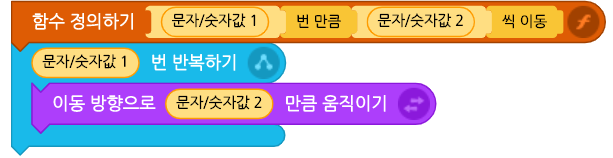
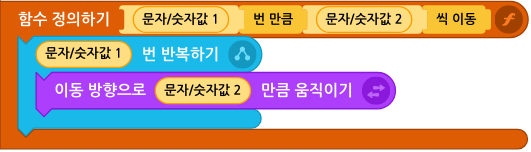
함수 블록 내용 보강
- 기존 서술을 대폭 수정
- 더 나은 화질의 이미지를 적용

diff --git a/source/user/block_function.md b/source/user/block_function.md
@@ -1,180 +1,141 @@
 ---
 layout: page
 title: 함수 블록
-date: 2020-11-18 16:38:00
+date: 2023-01-25 15:48:00
 type: userGuide
 category: "블록"
 order: 21
 ---
 
-함수를 이용하면 여러 블록의 조립을 하나의 블록처럼 사용할 수 있습니다. 하나의 기능을 위해 사용되는 블록의 모음이거나 여러 번 사용해야 하는 블록들을 함수로 만들면 편리하답니다.
-마치 '집 밖으로 나가기'라는 하나의 목표를 위해 양치를 하고, 양말을 신고, 현관문을 열어야 하는 것처럼요!
+
+## 함수란?
+
+함수를 이용하면 여러 블록을 조립해 하나의 블록처럼 사용할 수 있습니다. 이걸 함수를 정의한다고 말하는데요.  
+하나의 특별한 목적을 달성하고자 사용하는 블록의 모음이나, 반복해서 여러 번 사용해야 하는 블록들을 함수로 정의하면 편리하게 사용할 수 있답니다.  
+마치 '집 밖으로 나가기'라는 하나의 목적을 위해 양치를 하고, 양말을 신고, 현관문을 열어야 하는 것처럼요!  
 
 
+![block-function-define-example2](images/block-function-define-example2.png)  
+'집 밖으로 나가기'라는 목적을 달성하는 함수를 정의한다면 이렇게 만들 수 있겠네요.
+
+* * *
+
+## 함수 만들기 화면
+
+함수는 '함수 만들기' 화면에서 정의합니다. 블록 조립소에서 바로 정의하지 않고, 각각의 함수만을 조립할 수 있는 별도의 영역이에요.  
+(원래의 블록 조립소 위에 불투명하게 덮여서 표시되는 걸 볼 수 있죠?)  
 
 ![main-func-assembly-space](images/window/main-func-assembly-space.png)
+ 
+새로운 함수를 만드려면 블록 탭의 함수 블록 꾸러미에서 '함수 만들기' 버튼을 클릭하거나, 속성 탭의 함수 카테고리에서 '함수 추가하기'를 클릭해 함수 만들기 화면에 들어갑니다. 이미 만들어진 함수가 있을 때는 블록 탭에서 만들어진 함수 블록을 더블 클릭하거나, 속성 탭에서 해당 함수를 클릭하면 함수 만들기 화면에 들어갈 수 있습니다.
 
+함수 만들기 화면에서는 다른 블록을 조립해 함수를 정의할 수 있는 '함수 정의하기 블록'이 표시되고, 이 때의 블록 꾸러미에서는 함수를 정의하는 데 활용하는 '리본 블록'과 이미 정의한 다른 함수 블록이 표시돼요. 이 블록들을 사용하는 방법은 뒤에서 더 자세하게 알아보겠습니다.
 
+함수 만들기 화면을 빠져 나오려면 '저장' 버튼을 눌러 변경 내역을 저장하거나, '취소' 버튼을 눌러 변경 내역을 저장하지 않고 빠져 나올 수 있습니다. 
 
-함수를 만들려면 블록 탭의 함수 블록 꾸러미에서 '함수 만들기' 버튼을 클릭하거나, 속성 탭의 함수 카테고리에서 '함수 추가하기'를 클릭합니다. 이미 만들어진 함수가 있을 때는 함수 블록을 더블 클릭하면 함수 블록 꾸러미가 나타납니다.
+* * *
 
-함수 블록 조립소에는 함수를 정의할 수 있는 '리본 블록'을 볼 수 있어요.
+## 함수 정의하기
 
-+ **리본 블록**
-  + 함수 이름 블록 ![block-function-02](images/block-function-02.png)
-  + 함수 값 블록 ![block-function-03](images/block-function-03.png)
-  + 함수 판단 블록 ![block-function-04](images/block-function-04.png)
+함수 만들기 화면의 함수 정의하기 블록에 일반 블록과 리본 블록을 조립/결합하면 함수를 정의할 수 있습니다.  
+함수 정의하기 블록과 리본 블록은 아래와 같이 생겼어요.  
 
+**함수 정의하기 블록**
 
+함수 정의하기 블록은 흐름 블록과 비슷하게 일반 블록을 감싸는 형태입니다.
 
-
-
-## POINT: 함수 정의하기
-
-함수를 정의하기 위해서는 리본 블록과 일반 블록을 같이 사용해야 합니다.
-
-함수에 조립된 일반 블록들은 함수가 동작할 때, 같이 동작되는 블록이 됩니다. 리본 블록들은 일반 블록에 입력할 값 블록(<img src="images/icon/value.png" alt="value" style="zoom:50%;" />)과 판단 블록(<img src="images/icon/decision.png" style="zoom:50%;" />) 자리를 만들어 주는 블록이라고 볼 수 있어요.
-
-
-
++ **기본 형태** (결과값을 가지지 않음)  
 ![block-function-define](images/block-function-define.png)
++ **결과값을 가지는 형태**  
+![block-function-define-value](images/block-function-define-value.png)
 
+함수 정의하기 블록에 일반 블록을 조립하면, 함수가 동작할 때 각각의 블록이 조립된 순서대로 동작합니다.  
+이 때 조립한 블록은 작품에서 조립되었을 때와 동일하게 동작해요. (기능 상의 차이는 없습니다.)
 
 
-처음 함수를 만들면 보이는 함수 정의 블록입니다. 정의한 함수가 동작할 때, 해당 함수에 조립된 블록들이 동작해요.
+**리본 블록**
+ 
+리본 블록은 함수 정의하기 블록에만 결합할 수 있는 특수한 블록입니다. 다른 곳에서는 사용되지 않아요.  
+리본 블록의 종류는 총 세 가지로, 함수의 이름을 설정하거나, 값 블록(<img src="images/icon/value.png" alt="value" style="zoom:50%;" />)을 대신하거나, 판단 블록(<img src="images/icon/decision.png" style="zoom:50%;" />)을 대신하는 역할을 합니다.
 
++ **이름 리본 블록**  
+![block-function-02](images/block-function-02.png)  
+함수의 이름을 설정하는 리본 블록입니다. 
+  + 만일 이름 리본 블록에 '함수'라고 입력하고 함수 정의하기 블록에 결합했다면  
+  ![block-function-define](images/block-function-define.png)  
+  완성한 함수 블록은 이런 모습이 됩니다.  
+  ![block-function-01](images/block-function-01.png)
++ **값 리본 블록**  
+![block-function-03](images/block-function-03.png)  
+함수 내부에 결합되는 값 블록(<img src="images/icon/value.png" alt="value" style="zoom:50%;" />)을 대신해, 함수 블록을 사용할 때마다 바꿔 끼울 수 있는 자리를 만드는 리본 블록입니다.  
+  + 값 리본 블록이 함수 정의하기 블록에 결합되면 왼쪽 위부터 순서대로 숫자가 붙습니다.  
+  이 숫자로 각각의 값 블록을 구분해 사용합니다. 
+  + 값 리본 블록에 결합되어 있는 값 블록을 뚝 떼면, 블록이 분리되는 것이 아니라 복제됩니다.  
+  이렇게 분리한 값 블록을 다른 블록에 결합해 사용합니다. 
+  + 하나의 값 리본 블록을 여러 번 분리해 각각 다른 곳에서 결합해 사용할 수 있어요.
++ **판단 리본 블록**  
+![block-function-04](images/block-function-04.png)  
+함수 내부에 결합되는 판단 블록(<img src="images/icon/decision.png" style="zoom:50%;" />)을 대신해, 함수 블록을 사용할 때마다 바꿔 끼울 수 있는 자리를 만드는 리본 블록입니다.
+  + 판단 리본 블록이 함수 정의하기 블록에 결합되면 왼쪽 위부터 순서대로 숫자가 붙습니다.  
+  이 숫자로 각각의 판단 블록을 구분해 사용합니다.  
+  + 판단 리본 블록에 결합되어 있는 판단 블록을 뚝 떼면, 블록이 분리되는 것이 아니라 복제됩니다.  
+  이렇게 분리한 판단 블록을 다른 블록에 결합해 사용합니다. 
+  + 하나의 판단 리본 블록을 여러 번 분리해 각각 다른 곳에서 결합해 사용할 수 있어요.
 
+리본 블록은 여러 개를 한꺼번에 결합할 수 있고, 순서도 자유롭게 설정할 수 있습니다.
 
+예를 들어, 아래와 같이 리본 블록 여러 개를 결합해 함수를 정의하면  
+![block-function-define-example](images/block-function-define-example.png)  
 
+실제 함수 블록은 이렇게 만들어 집니다.  
+![block-function-example](images/block-function-example.png)  
 
-## 1. 함수 이름 리본 블록
+**리본 블록 사용 예시**
 
+값/판단 리본 블록을 사용하는 방법은 방금 전의 예시를 통해 더 자세히 알아보도록 할게요.  
+사용 방법은 동일하니 값 리본 블록으로 설명합니다.
 
+값 리본 블록(![block-function-03](images/block-function-03.png))은 함수 정의하기 블록의 맨 위에 결합됩니다.  
+잘 결합되었다면 리본 블록의 이름에 숫자가 붙는 것(![block-function-03-example](images/block-function-03-example.png))을 볼 수 있어요.  
+만약 숫자가 붙지 않았다면 결합이 되지 않았다는 뜻이니, 다시 한번 결합을 잘 확인해 주세요.
 
-![block-function-02](images/block-function-02.png)
+이 때, 결합된 리본 블록에서 값 블록(![block-function-03-value-example](images/block-function-03-value-example.png))을 분리할 수 있는데요.  
+분리를 하면 결합된 값 블록이 떨어져 나오는 것이 아니라, 복제되는 것을 볼 수 있습니다.  
 
+이제 이 복제한 값 블록을 함수 정의하기 블록에 조립한 '`(1)` 초 동안 x: `(5)` y: `(10)` 만큼 움직이기' 블록과 '`(1)` 초 동안 x: `(5)` y: `((0)-(10))` 만큼 움직이기' 블록에 아래와 같이 결합하면
 
+![function-drag-example](images/window/function-drag-example.gif)  
 
-함수 이름 리본 블록은 함수 블록의 이름을 짓는 용도로만 사용합니다. 따라서 '함수 정의하기' 오른쪽에만 들어갈 수 있어요.
+함수 블록은 이렇게 만들어 집니다.  
+![block-function-example](images/block-function-example.png)  
+(`<판단값 1>`, `(문자/숫자값 1)` 자리에 기본값으로 `<참>`, `(10)`이 입력되어 있네요.)  
 
-리본 블록을 결합하는 순서는 자유로워요. 예를 들어, 아래의 그림과 같이 리본 블록을 결합할 수 있습니다.
+* * *
 
+## 함수 사용하기
 
+**함수 블록**
 
-![block-function-define-example](images/block-function-define-example.png)
+함수를 모두 정의했다면 그 결과로 블록 꾸러미의 함수 카테고리에 내가 만든 함수 블록이 표시됩니다.  
+이 함수 블록을 블록 조립소에서 자유롭게 조립해 사용하면 됩니다. 
 
++ **기본 형태** (일반 블록)  
+![block-function](images/block-function.png)
++ **결과값 형태** (값 블록)  
+![block-function-value](images/block-function-value.png)  
+함수 블록은 일반 블록의 형태 뿐만 아니라, 값 블록의 형태로도 만들어 줄 수 있어요.  
+함수에 조립된 블록들이 모두 동작한 후, 결과값을 반환하는 형태가 되는 거죠!  
+(그래서 최종적으로 만들어 지는 함수 블록도 값 블록 모양이 되는 거에요.)
 
+블록 조립소에서 함수 블록을 조립해 사용할 때는, 함수 블록의 `(문자/숫자값 1)` 자리에 입력된 값(`(40)`)이 함수를 정의할 때 사용한 일반 블록에 결합된 모든 `(문자/숫자값 1)`의 자리에 똑같이 들어가서 동작하게 됩니다.
 
-만일 함수 이름을 '함수'라고 지었다면, 완성한 함수는 이런 모습입니다.
+![block-function-example1-1](images/block-function-example1-1.png)  
 
+![block-function-define-example1-1](images/block-function-define-example1-1.png)  
 
+* * *
 
-![block-function-01](images/block-function-01.png)
 
+일반 블록을 조립한 코드와 함수 블록으로 만든 코드가 하는 동작은 완전히 똑같지만, 함수 블록은 블록 코드의 개수를 줄일 수 있어 조립이 더욱 간편해 집니다. 코드를 쉽게 재활용할 수도 있어 유용하기도 하구요.
 
-
-위의 예시와 같이 함수를 정의한다면, 완성한 함수는 이런 모습입니다.
-
-
-
-![block-function-example](images/block-function-example.png)
-
-
-
-이렇게 만든 함수 블록은 다른 블록처럼 언제든지 작품에서 사용할 수 있어요.
-
-어때요? 나만의 블록을 만들 수 있다니, 신기하지 않나요?
-
-
-
-
-
-## 2. 함수 값 리본 블록
-
-
-
-![block-function-03](images/block-function-03.png)
-
-
-
-함수 값 리본 블록은 함수 블록에 입력한 문자/숫자를 값 블록(<img src="images/icon/value.png" alt="value" style="zoom:50%;" />)으로 가져오는 역할을 합니다.
-
-함수 값 리본 블록이 함수 정의 블록에 결합되면 왼쪽부터 순서대로 숫자가 나타납니다. 이 순서로 값 블록의 용도를 서로 구분할 수 있어요.
-
-예를 들어, 아래의 그림과 같이 사용할 수 있어요.
-
-
-
-![block-function-03-1-example](images/block-function-03-1-example.png)
-
-
-
-값 블록(<img src="images/block-function-03.png" alt="block-function-03" style="zoom:90%;" />)부분을 드래그하면 해당 순서의 문자/숫자 값 블록(<img src="images/icon/value.png" alt="value" style="zoom:50%;" />)을 복사할 수 있습니다. 복사된 값 블록은 일반 블록과 결합하여 사용할 수 있어요.
-
-예를 들어, 함수 값 리본 블록 중  문자/숫자값1(<img src="images/block-function-03-1-example-0-1.png" alt="block-function-03-1-example-0-1" style="zoom:90%;" />)에 입력된 문자/숫자 값은 일반 블록에 결합된 문자/숫자값1 값 블록 (<img src="images/block-function-03-1-example-0-2.png" alt="block-function-03-1-example-0-2" style="zoom:90%;" />) 자리에 들어가서 작동하게 됩니다.
-
-
-
-![function-drag-example](images/window/function-drag-example.gif)
-
-
-
-위의 예시와 같이 함수를 정의한다면, 함수 블록은 아래와 같이 만들어집니다.
-
-
-
-![block-function-03-1-example-1](images/block-function-03-1-example-1.png)
-
-
-
-이렇게 만들어진 함수는 밑에 블록과 같은 동작을 하게 되죠.
-
-
-
-![block-function-03-1-example-2](images/block-function-03-1-example-2.png)
-
-
-
-두 블록 코드가 하는 동작은 완전히 똑같지만, 함수 블록는 블록 코드의 개수를 줄여 코드를 더 깔끔하게 만들 수 있답니다!
-
-
-
-
-
-## 3. 함수 판단 리본 블록
-
-
-
-![block-function-04](images/block-function-04.png)
-
-
-
-함수 판단 리본 블록은 함수 블록에 입력한 판단 값을 함수 정의 사용하는 판단 블록(<img src="images/icon/decision.png" style="zoom:50%;" />)으로 가져오는 역할을 합니다.
-
-예를 들어, 아래의 그림과 같이 리본 블록을 결합해서 사용할 수 있어요.
-
-
-
-![block-function-04-2](images/block-function-04-2.png)
-
-
-
-함수 판단 리본 블록이 함수 정의 블록에 결합되면 왼쪽부터 순서대로 숫자가 나타납니다. 이 순서로 값 블록의 용도를 서로 구분할 수 있어요.
-
-이 블록의 판단 블록(<img src="images/icon/decision-long.png" style="zoom:50%;" />)을 드래그하면 해당 순서의 판단 블록(<img src="images/icon/decision.png" style="zoom:50%;" />)을 복사할 수 있습니다.
-
-예를 들어, 함수 판단 리본 블록 중 판단값1 (<img src="images/block-function-04-2-2.png" alt="block-function-04-2-2" style="zoom:90%;" />)에 입력된 판단값은 일반 블록에 결합된 판단값1(<img src="images/block-function-04-2-1.png" alt="block-function-04-2-1"/>)에 들어가서 작동하게 됩니다.
-
-
-
-![block-function-example](images/block-function-example.png)
-
-
-
-위의 예시와 같이 함수를 정의한다면, 완성한 함수는 이런 모습이에요.
-
-
-
-함수 블록을 적극적으로 활용하면 조립이 간편하고 블록을 쉽게 재활용할 수 있어서 유용합니다.
-
-자, 이제 여러분만의 특별한 블록을 만들어보세요!
+자, 그럼 이제 함수를 이용해 여러분만의 특별한 블록을 만들어 볼까요?
